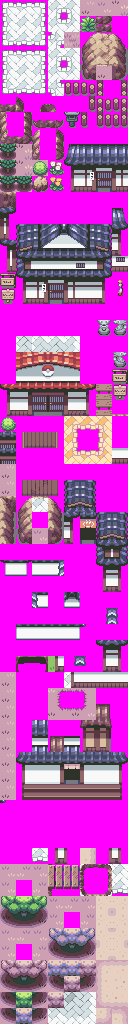
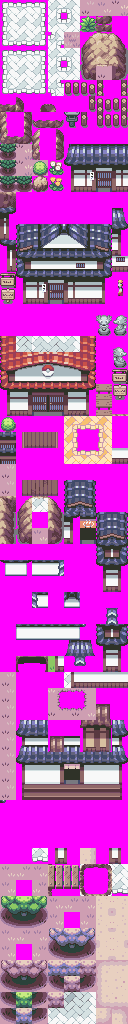
Chimecho chime tiles, small fixes

diff --git a/src/tileset_anims.c b/src/tileset_anims.c
@@ -1444,6 +1444,42 @@ void InitTilesetAnim_Maguro(void)
     sSecondaryTilesetAnimCallback = TilesetAnim_Maguro;
 }
 
+// YIFU
+
+#define STARTING_TILE_CHIME 0x200
+#define NB_TILES_CHIME 4
+
+const u16 gTilesetAnims_gTilesetAnims_Yifu_Chime_Frame0[] = INCBIN_U16("data/tilesets/secondary/yifu/anim/chime/00.4bpp");
+const u16 gTilesetAnims_gTilesetAnims_Yifu_Chime_Frame1[] = INCBIN_U16("data/tilesets/secondary/yifu/anim/chime/01.4bpp");
+const u16 gTilesetAnims_gTilesetAnims_Yifu_Chime_Frame2[] = INCBIN_U16("data/tilesets/secondary/yifu/anim/chime/02.4bpp");
+
+const u16 *const gTilesetAnims_Yifu_Chime[] = {
+    gTilesetAnims_gTilesetAnims_Yifu_Chime_Frame0,
+    gTilesetAnims_gTilesetAnims_Yifu_Chime_Frame1,
+    gTilesetAnims_gTilesetAnims_Yifu_Chime_Frame2,
+    gTilesetAnims_gTilesetAnims_Yifu_Chime_Frame1
+};
+
+static void QueueAnimTiles_Yifu_Chime(u16 timer)
+{
+    u16 i = timer % ARRAY_COUNT(gTilesetAnims_Yifu_Chime);
+    AppendTilesetAnimToBuffer(gTilesetAnims_Yifu_Chime[i], STARTING_TILE_CHIME, NB_TILES_CHIME * TILE_SIZE_4BPP);
+}
+
+static void TilesetAnim_Yifu(u16 timer)
+{
+    if (timer % 32 == 0) {
+        QueueAnimTiles_Yifu_Chime(timer / 32);
+    }
+}
+
+void InitTilesetAnim_Yifu(void)
+{
+    sSecondaryTilesetAnimCounter = 0;
+    sSecondaryTilesetAnimCounterMax = 256;
+    sSecondaryTilesetAnimCallback = TilesetAnim_Yifu;
+}
+
 // BUILDING
 
 #define STARTING_TILE_FURNACE 1

diff --git a/src/data/heal_locations.h b/src/data/heal_locations.h
@@ -25,7 +25,7 @@ static const struct HealLocation sHealLocations[] =
     [HEAL_LOCATION_CHII_TOWN - 1] = {MAP_GROUP(CHII_TOWN), MAP_NUM(CHII_TOWN), 13, 20},
     [HEAL_LOCATION_SAKU_TOWN - 1] = {MAP_GROUP(SAKU_TOWN), MAP_NUM(SAKU_TOWN), 37, 20},
     [HEAL_LOCATION_KURA_TOWN - 1] = {MAP_GROUP(KURA_TOWN), MAP_NUM(KURA_TOWN), 34, 26},
-    [HEAL_LOCATION_MAGURO_HARBOR - 1] = {MAP_GROUP(MAGURO_HARBOR), MAP_NUM(MAGURO_HARBOR), 24, 9},
+    [HEAL_LOCATION_MAGURO_HARBOR - 1] = {MAP_GROUP(MAGURO_HARBOR), MAP_NUM(MAGURO_HARBOR), 19, 9},
     [HEAL_LOCATION_SILVERIDGE - 1] = {MAP_GROUP(SILVERIDGE), MAP_NUM(SILVERIDGE), 30, 20},
     [HEAL_LOCATION_WINDY_CAPE - 1] = {MAP_GROUP(WINDY_CAPE), MAP_NUM(WINDY_CAPE), 41, 32},
     [HEAL_LOCATION_SOULKEEP - 1] = {MAP_GROUP(SOULKEEP), MAP_NUM(SOULKEEP), 19, 25},

diff --git a/src/data/tilesets/headers.h b/src/data/tilesets/headers.h
@@ -958,7 +958,7 @@ const struct Tileset gTileset_Yifu =
     .palettes = gTilesetPalettes_Yifu,
     .metatiles = gMetatiles_Yifu,
     .metatileAttributes = gMetatileAttributes_Yifu,
-    .callback = NULL,
+    .callback = InitTilesetAnim_Yifu,
 };
 
 const struct Tileset gTileset_DojoKura =

diff --git a/include/tileset_anims.h b/include/tileset_anims.h
@@ -38,5 +38,6 @@ void InitTilesetAnim_ExteriorGeneric(void);
 void InitTilesetAnim_Building_Generic(void);
 void InitTilesetAnim_SakuKura(void);
 void InitTilesetAnim_Maguro(void);
+void InitTilesetAnim_Yifu(void);
 
 #endif // GUARD_TILESET_ANIMS_H
